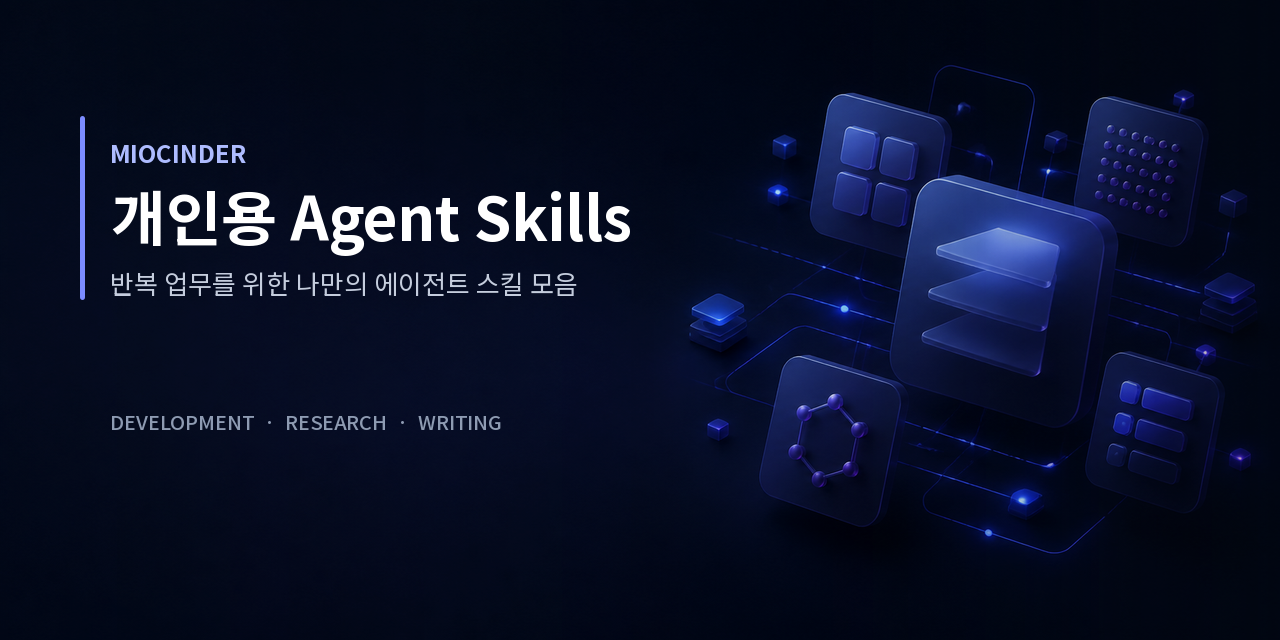
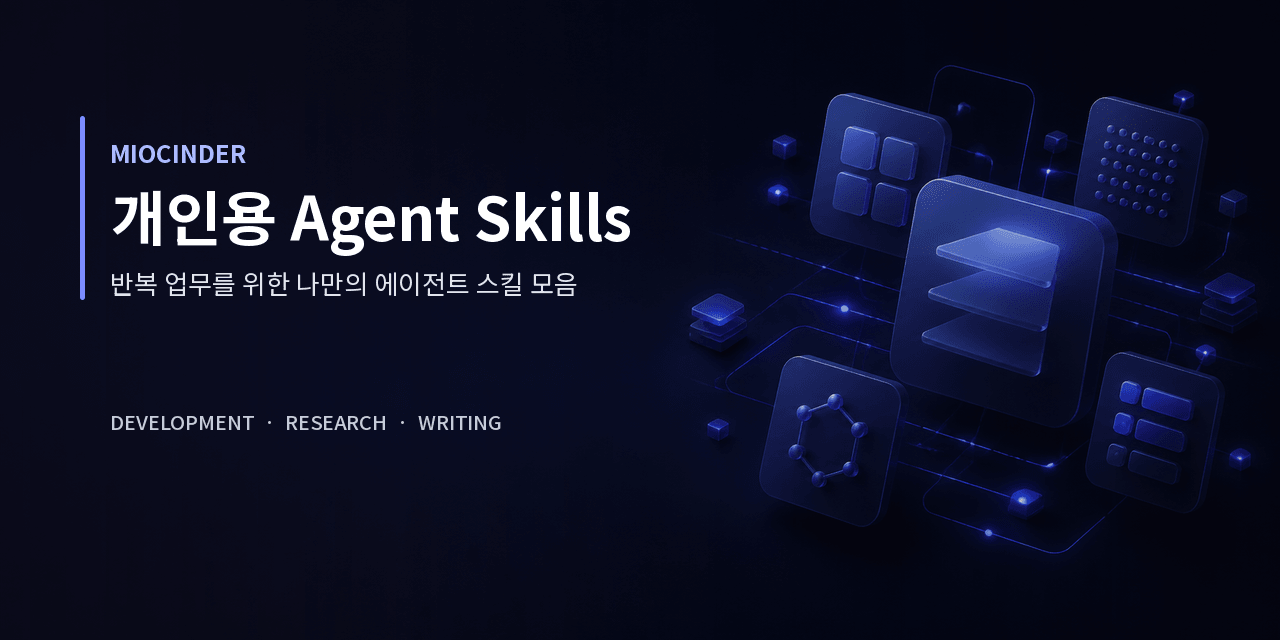
fix(github-social-preview): 1MB 이하 PNG 출력 보장
팔레트 PNG 압축과 불필요한 PNG 청크 제거로 GitHub 업로드 제한을 만족하도록 개선했다. 출력 파일이 900KB 목표를 초과하면 생성에 실패하도록 검증을 추가했다.

diff --git a/skills/github-social-preview/scripts/create-social-preview.js b/skills/github-social-preview/scripts/create-social-preview.js
@@ -41,6 +41,27 @@ const themes = {
   },
 };
 
+const PNG_SIGNATURE_LENGTH = 8;
+const MAX_OUTPUT_BYTES = 900_000;
+const PNG_IMAGE_CHUNKS = new Set(['IHDR', 'PLTE', 'tRNS', 'IDAT', 'IEND']);
+
+function stripPngMetadata(buffer) {
+  const chunks = [buffer.subarray(0, PNG_SIGNATURE_LENGTH)];
+  let offset = PNG_SIGNATURE_LENGTH;
+
+  while (offset + 12 <= buffer.length) {
+    const length = buffer.readUInt32BE(offset);
+    const type = buffer.subarray(offset + 4, offset + 8).toString('ascii');
+    const chunkEnd = offset + 12 + length;
+    if (chunkEnd > buffer.length) throw new Error('Invalid PNG chunk length.');
+    if (PNG_IMAGE_CHUNKS.has(type)) chunks.push(buffer.subarray(offset, chunkEnd));
+    offset = chunkEnd;
+    if (type === 'IEND') break;
+  }
+
+  return Buffer.concat(chunks);
+}
+
 function textLayer(text, width, fontSize, weight, color) {
   return sharp({
     text: {
@@ -75,7 +96,7 @@ async function main() {
     textLayer(args.topics || '', 620, 20, 'Medium', theme.topics),
   ]);
 
-  await sharp(args.input)
+  const rendered = await sharp(args.input)
     .resize(1280, 640, { fit: 'cover', position: 'centre' })
     .composite([
       { input: overlay, top: 0, left: 0 },
@@ -84,14 +105,17 @@ async function main() {
       { input: subtitle, top: 272, left: 112 },
       { input: topics, top: 416, left: 112 },
     ])
-    .png({ compressionLevel: 9, adaptiveFiltering: true })
-    .toFile(output);
+    .png({ palette: true, colours: 256, quality: 90, dither: 1, compressionLevel: 9, adaptiveFiltering: true })
+    .toBuffer();
+  await fs.promises.writeFile(output, stripPngMetadata(rendered));
 
   const info = await sharp(output).metadata();
+  const { size } = await fs.promises.stat(output);
   const remainingMetadata = ['exif', 'icc', 'iptc', 'xmp'].filter((field) => info[field]);
   if (info.width !== 1280 || info.height !== 640) throw new Error(`Invalid output dimensions: ${info.width}×${info.height}`);
   if (remainingMetadata.length) throw new Error(`Metadata was not removed: ${remainingMetadata.join(', ')}`);
-  console.log(`Created ${output} (${info.width}×${info.height}, metadata removed)`);
+  if (size >= MAX_OUTPUT_BYTES) throw new Error(`Output exceeds the 900 KB target: ${size} bytes.`);
+  console.log(`Created ${output} (${info.width}×${info.height}, ${size} bytes, metadata removed)`);
 }
 
 main().catch((error) => {

diff --git a/skills/github-social-preview/SKILL.md b/skills/github-social-preview/SKILL.md
@@ -17,7 +17,7 @@ Create a 1280×640px PNG for a GitHub repository's social preview. Use image gen
    ```
 
 3. Choose a Korean font with a clear, permissive redistribution/use license. Do not include a font file in this skill or repository; obtain the font from its official source and pass its local path to the script.
-4. Run the included script. It crops the background, lays out accurate text, writes a PNG, strips metadata by default, then fails if EXIF, ICC, IPTC, or XMP metadata remains.
+4. Run the included script. It crops the background, lays out accurate text, writes a palette PNG, removes non-image PNG chunks, and fails unless the result is below the 900 KB target.
 
    ```bash
    node scripts/create-social-preview.js \
@@ -31,7 +31,7 @@ Create a 1280×640px PNG for a GitHub repository's social preview. Use image gen
      --topics "DEVELOPMENT  ·  RESEARCH  ·  WRITING"
    ```
 
-5. Inspect the final image. Confirm its dimensions are exactly 1280×640px, all copy is legible, and no text enters the outer 60px safe area.
+5. Inspect the final image. Confirm its dimensions are exactly 1280×640px, below 1 MB, all copy is legible, and no text enters the outer 60px safe area.
 
 Use `--theme dark` for dark or cool backgrounds and `--theme warm` for light or warm backgrounds. The warm theme uses deep plum text instead of white so it retains contrast without looking out of place.
 
@@ -41,4 +41,5 @@ Use `--theme dark` for dark or cool backgrounds and `--theme warm` for light or 
 - Keep the composition simple: dark or muted backdrop, left-aligned text, visual object cluster on the right.
 - Use a locally supplied font file only. Never rely on an unverified system font for Korean text.
 - Keep social-card text brief: one title, one explanatory line, and optional topic labels.
-- Do not retain image metadata. The output must contain no EXIF, ICC profile, IPTC, or XMP data.
+- Do not retain image metadata. Keep only the PNG image chunks required for rendering.
+- Keep the final file below 1 MB; the script targets 900 KB to leave a safety margin.
